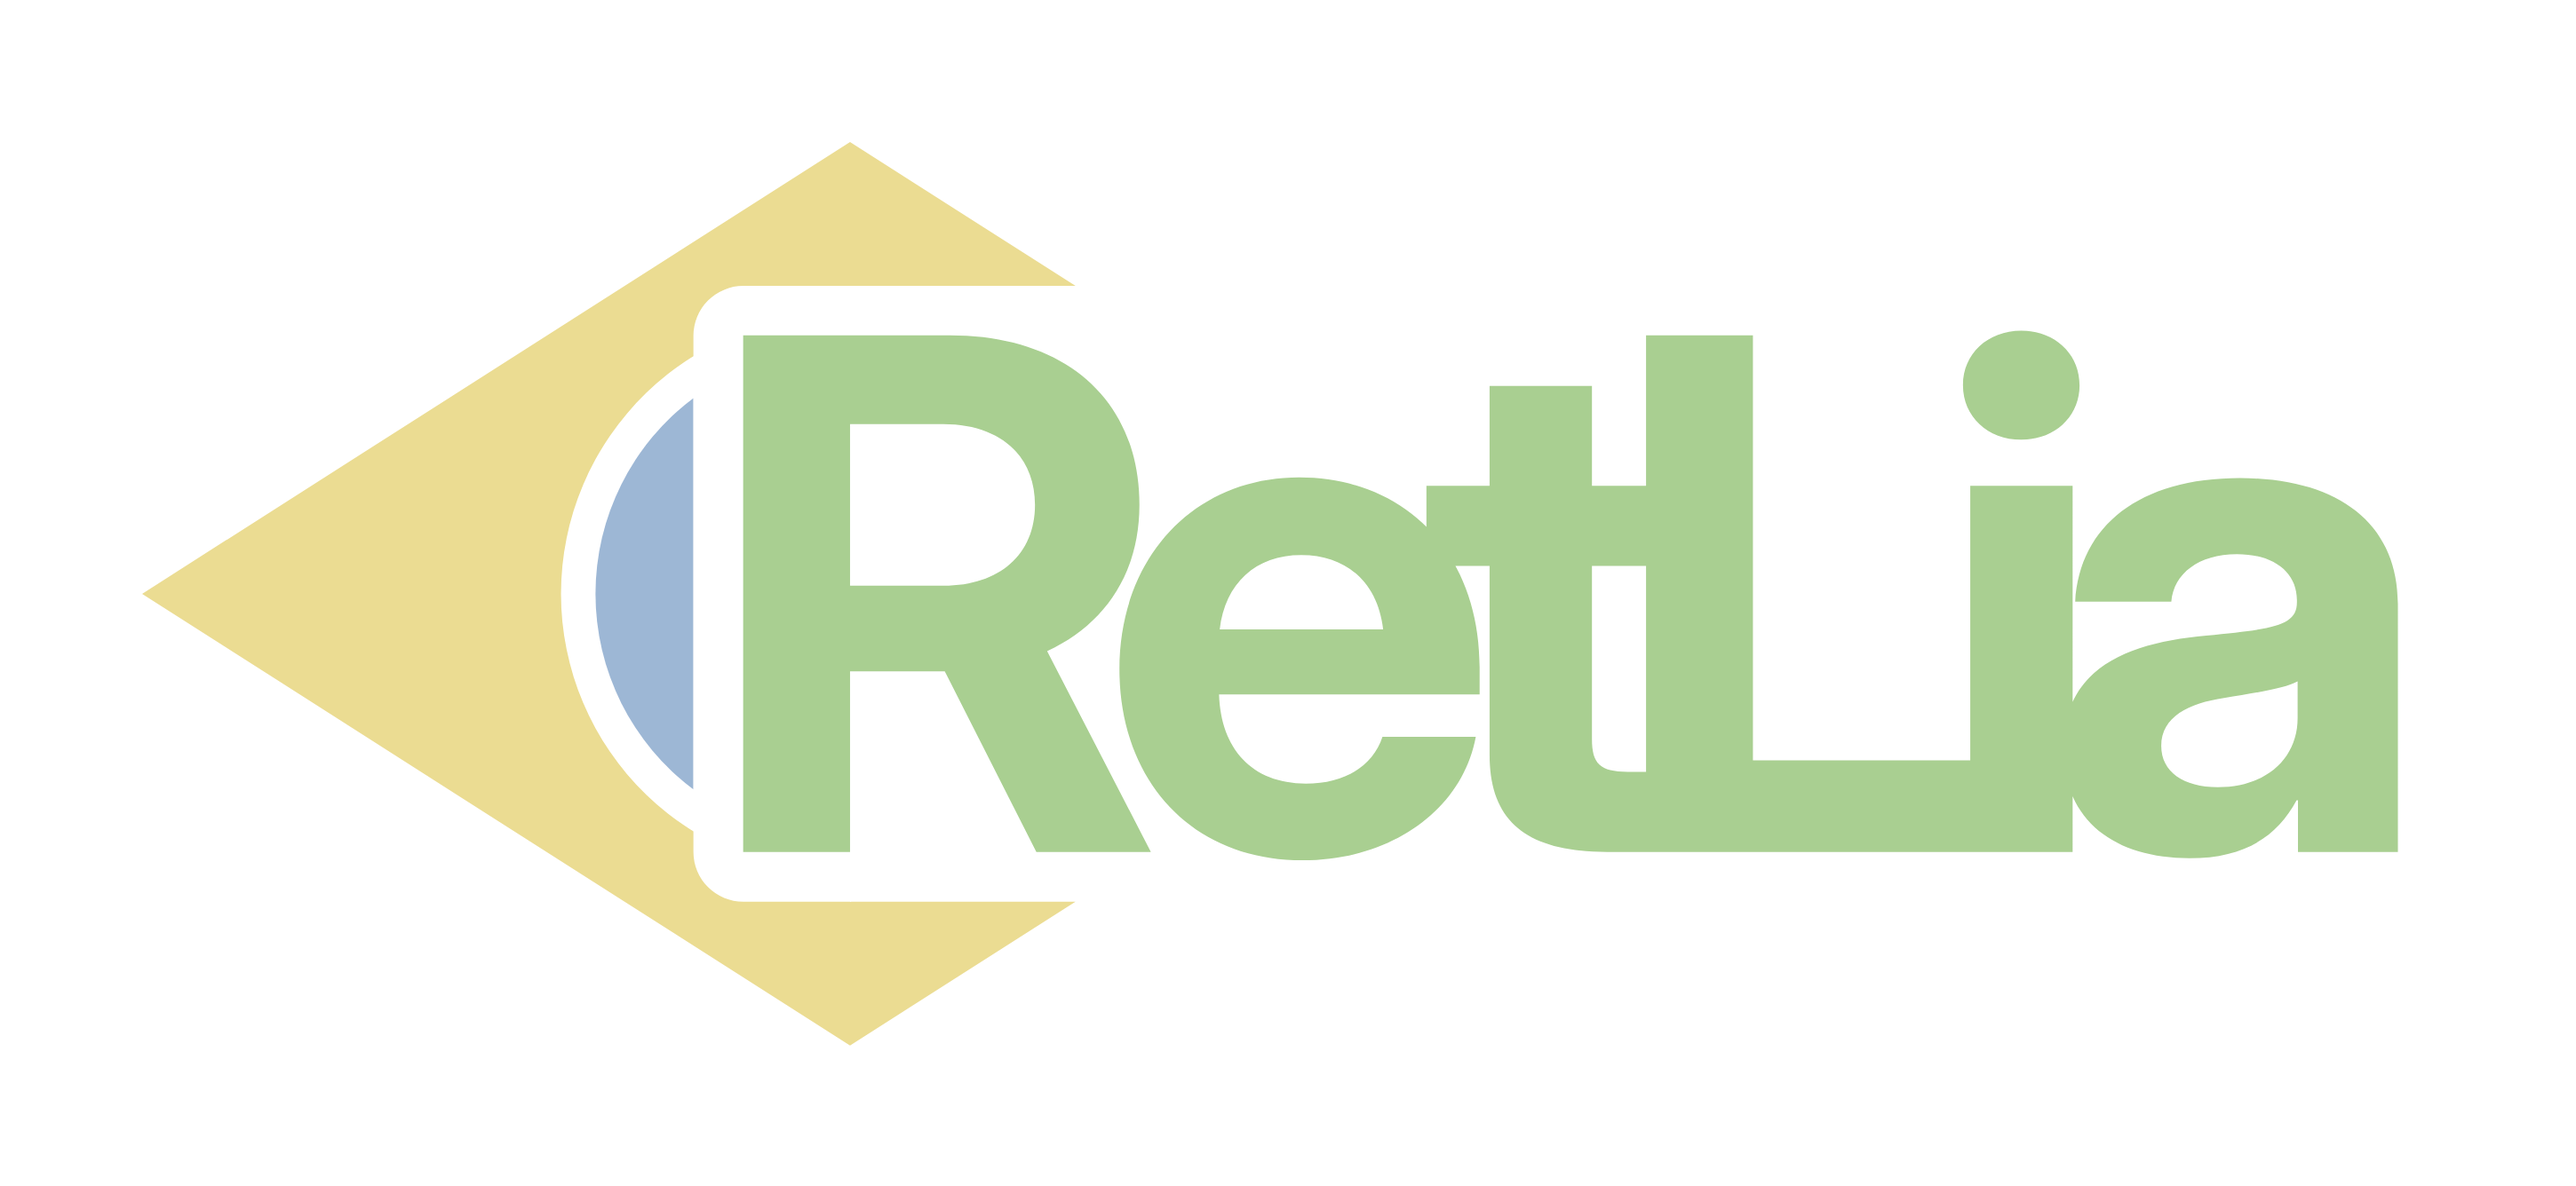
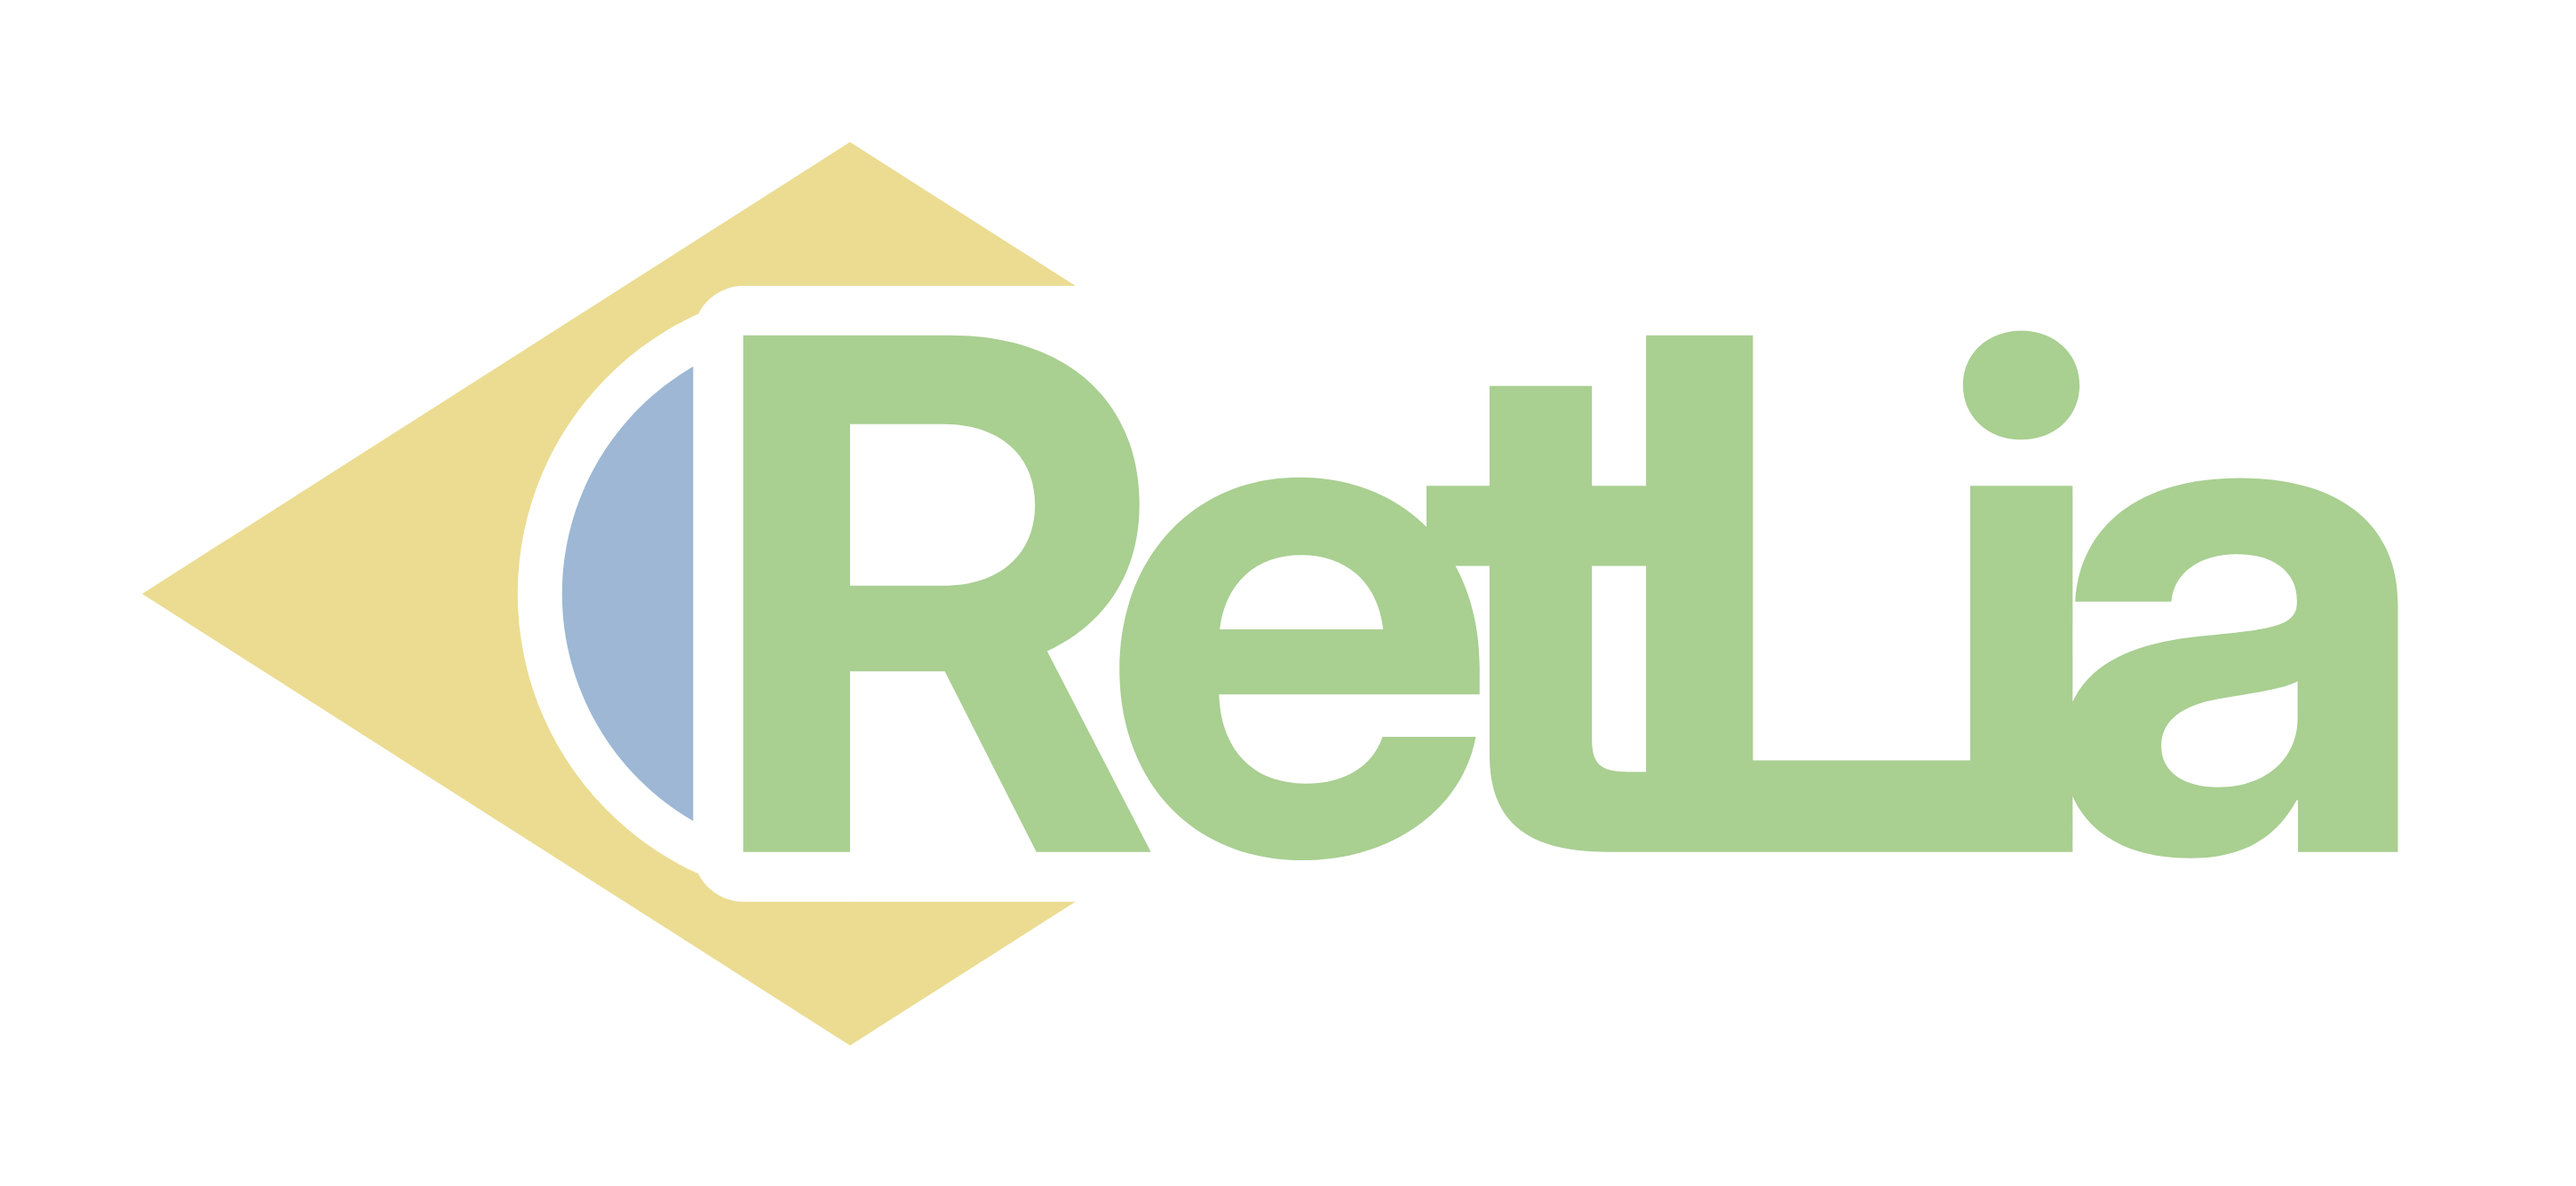
RetLia lateral: fatter globe and slightly thicker white ring; refresh 1920x1080 exports
Claude-Session: https://claude.ai/code/session_01S4SgoPNwAJLDoX8PJdvnWV

Changed region(s): [[0.1862, 0.2762, 0.2793, 0.7365]]

diff --git a/brand/retlia/gerar.py b/brand/retlia/gerar.py
@@ -110,11 +110,12 @@ def lateral(dark=False, loz=None, ball=None, text=None, fold=False, flapc=None):
     tx=flat-lsb-stem
     # bola: corpo sólido (o globo), separado do losango pela mesma borda branca do R;
     # só uma fração aparece à esquerda do R
-    Rb=(H/2)*3.5/5.3*0.82         # bola um pouco menor que a da bandeira
-    ring=border*0.7               # anel branco da bola, mais fino que a borda do R
+    BALL_F, CAP_K, RING_K = 0.88, 0.50, 0.90   # tamanho da bola, fração dela que aparece, espessura do anel
+    Rb=(H/2)*3.5/5.3*BALL_F       # raio da bola (a da bandeira = 1.0)
+    ring=border*RING_K            # anel branco da bola, um pouco mais fino que a borda do R
     Rw=Rb+ring                    # recorte branco em volta da bola
     r_left=tx+lsb-border
-    cx=r_left-Rb*0.40+Rb
+    cx=r_left+Rb*(1-CAP_K)
     dy=math.sqrt(Rw*Rw-(flat-cx)**2)
     hb=math.sqrt(Rb*Rb-(r_left-cx)**2)
     # a descida do losango continua até ser interrompida pela borda branca do R
